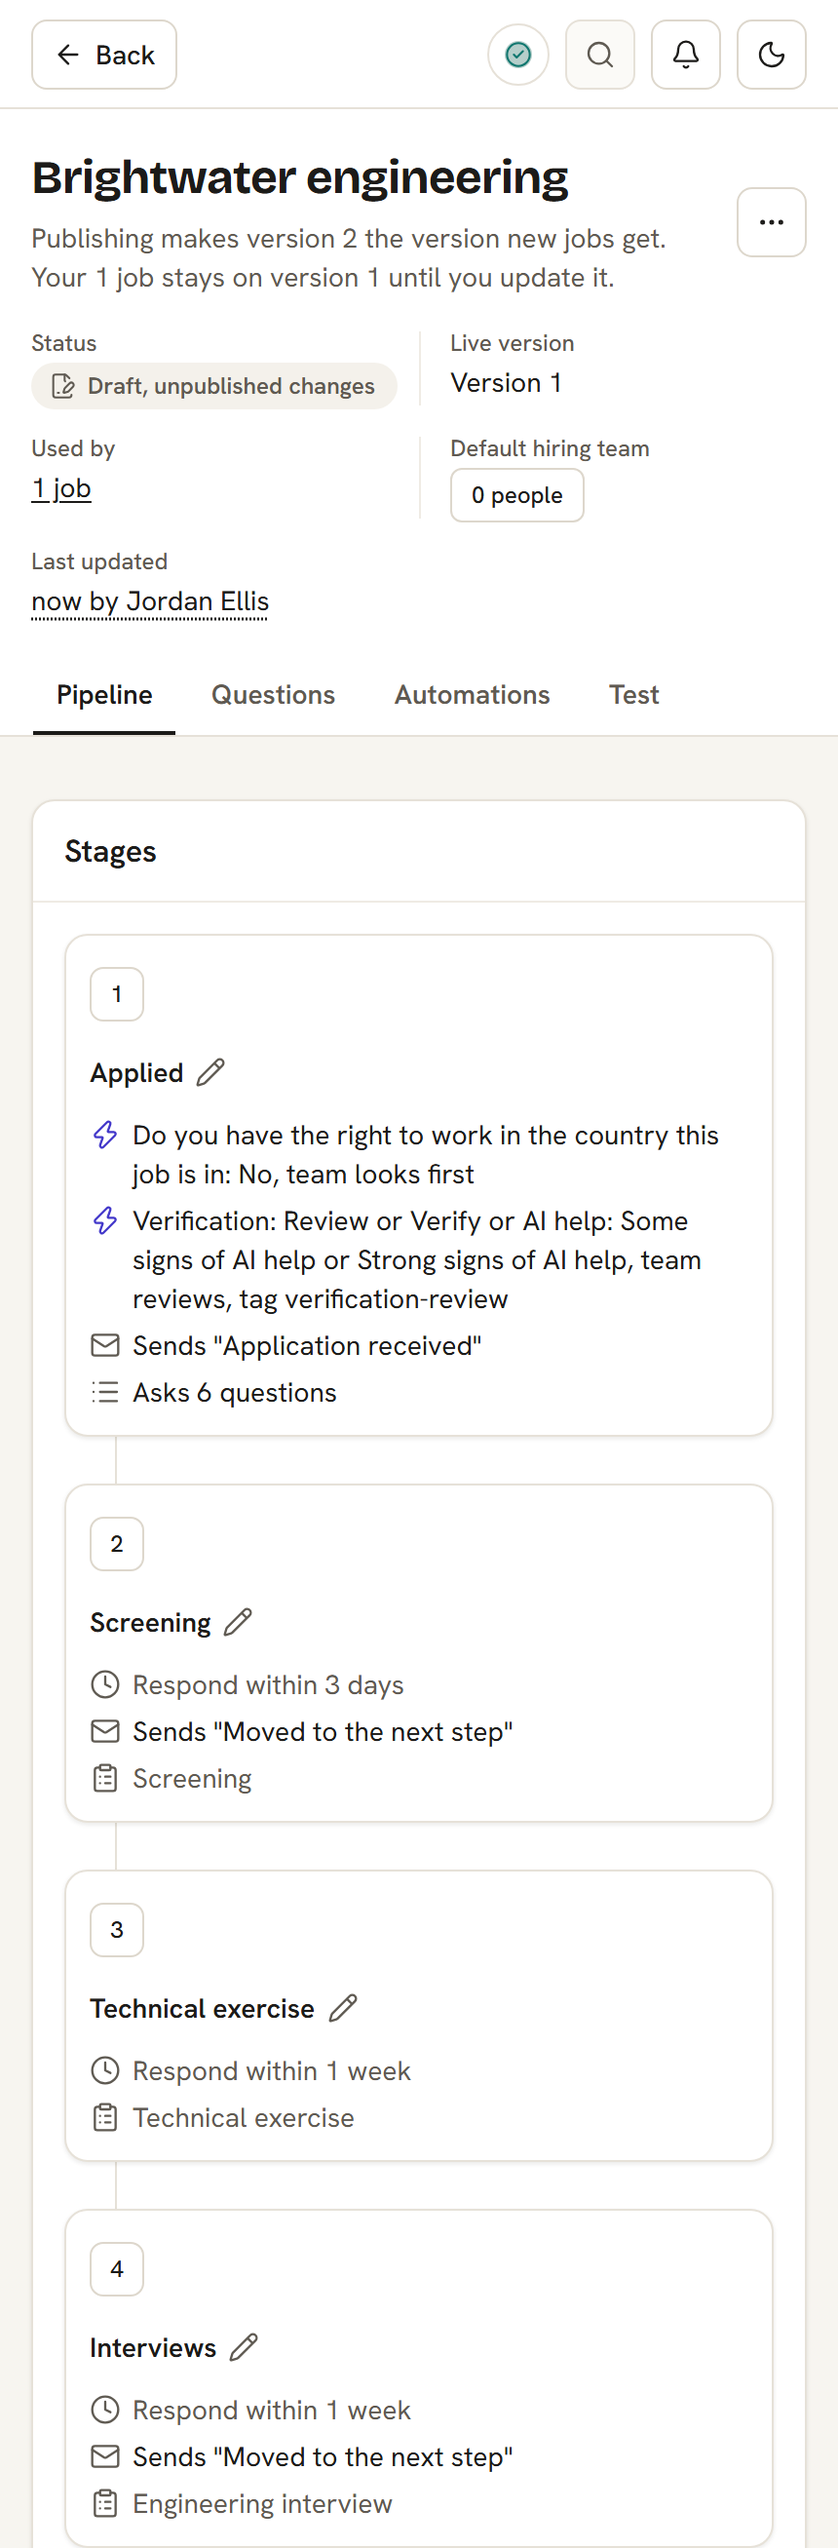
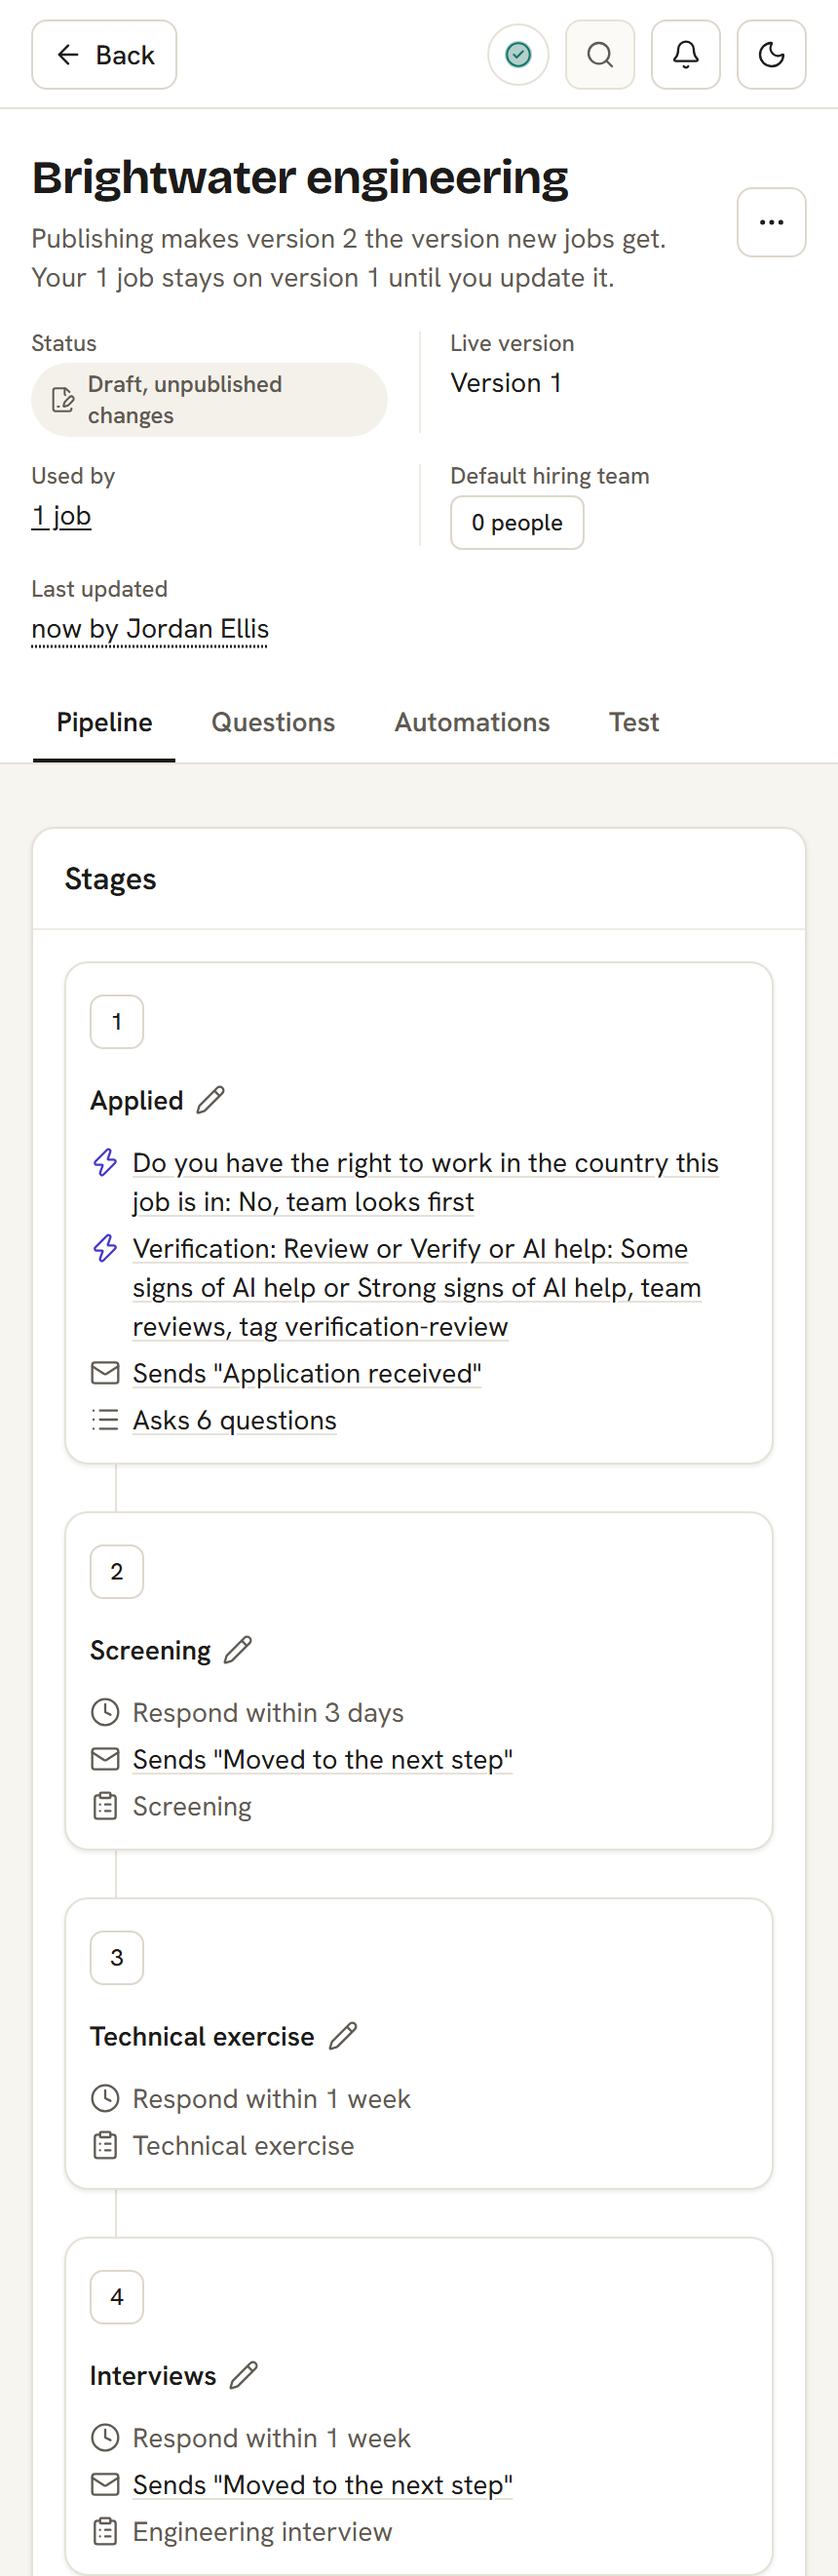
fix(review): only the Any stage band's plus keeps Write your own in that band, and check every action has its short words
The empty map's "Add an automation" also opened every recipe with no stage, so it started a run by hand too. The
band's own plus now says so (`anyStage`), and the empty map keeps "When someone applies". actionShort's default is
a type check, so a new action type cannot fall through to "does something". The template's marketing pictures are
regenerated for the review's changes to the stage cards and header.

diff --git a/apps/dashboard/src/lib/components/workflow/step-node.svelte b/apps/dashboard/src/lib/components/workflow/step-node.svelte
@@ -5,8 +5,11 @@
     edit: (automation: number, path: string) => void;
     /** Opens the drawer of a stage's automations, or Any stage's (null). */
     openLane: (stageId: string | null) => void;
-    /** Adds an automation to a stage's band, or Any stage's (null), and opens its form. */
-    add: (stageId: string | null) => void;
+    /**
+     * Opens the recipes for a stage's band, or every recipe (null). `anyStage` is the Any stage band's own plus, whose
+     * Write your own stays in that band; the empty map's button passes neither.
+     */
+    add: (stageId: string | null, anyStage?: boolean) => void;
     /** Adds a first condition to the automation `automationId` and opens its form there. */
     addCondition: (automationId: string) => void;
     /** Adds an action to the end of the automation `automationId` and opens its form there. */
@@ -23,7 +26,7 @@
   import ProblemIcon from '#lib/components/problem-icon.svelte';
   import * as Tooltip from '#lib/components/ui/tooltip/index.js';
   import TruncatedText from '#lib/components/truncated-text.svelte';
-  import { isAdd, type StepNode } from '#lib/workflow-graph.js';
+  import { LANE_BAND, isAdd, type StepNode } from '#lib/workflow-graph.js';
   import { usePathLight } from './graph-light.svelte.js';
 
   // One node of the workflow graph. Each kind has its own look and its word, so what it is reads before its text does:
@@ -59,7 +62,7 @@
   function press() {
     if (!actions) return;
     if (data.kind === 'lane' || data.kind === 'stage') actions.openLane(data.lane);
-    else if (data.kind === 'add-automation') actions.add(data.lane);
+    else if (data.kind === 'add-automation') actions.add(data.lane, data.band === LANE_BAND);
     else if (data.kind === 'add-condition') actions.addCondition(data.automationId!);
     else if (data.kind === 'add-action') actions.addAction(data.automationId!);
     else if (data.automation !== null) actions.edit(data.automation, data.path);

diff --git a/apps/dashboard/src/lib/components/workflow/workflow-editor.svelte b/apps/dashboard/src/lib/components/workflow/workflow-editor.svelte
@@ -208,8 +208,7 @@
   const graphActions: GraphActions = {
     edit: openAutomation,
     openLane,
-    // A stage's plus, or the Any stage band's (null).
-    add: (lane) => openRecipes(lane, lane === null),
+    add: openRecipes,
     addCondition(automationId) {
       const added = addCondition(workflow, automationId);
       if (added) openChanged(added, automationId);

diff --git a/apps/dashboard/src/lib/stage-facts.ts b/apps/dashboard/src/lib/stage-facts.ts
@@ -47,6 +47,8 @@ export function actionShort(action: AutomationAction, workflow: HiringWorkflow, 
     case 'Reject':
       return 'declines';
     default:
+      // Every action type has its words above: a new one fails the type check here rather than reading "does something".
+      action.type satisfies never;
       return 'does something';
   }
 }
